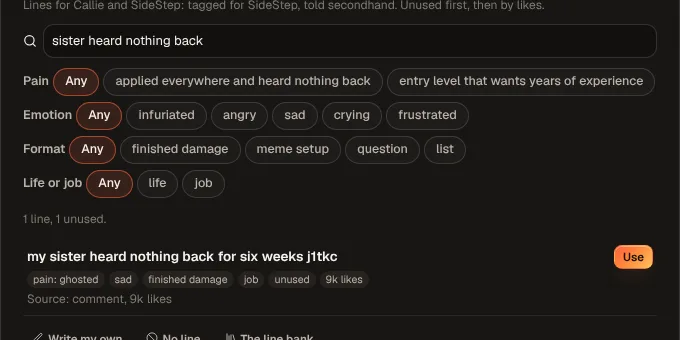
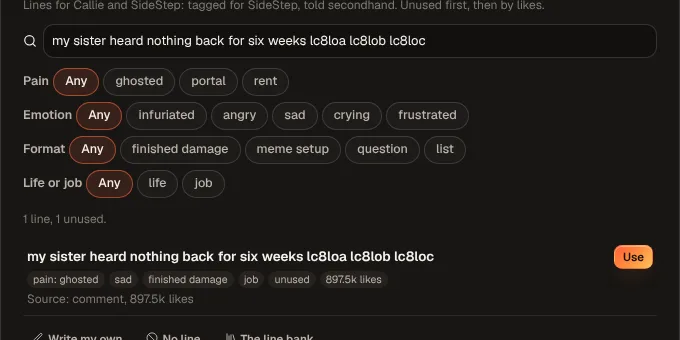
Who and what: a pulled place still shows where the owner is; the week help chip reads How a week works
A place still pulled from Higgsfield lands in the Visual drawer without
folding it (the post moves on only for an instant reuse). The help chip
next to Add to a week no longer repeats the button's name. The browser
specs' lines carry three run words and rising likes, so repeated runs on
one database never collide.

Claude-Session: https://claude.ai/code/session_019xw2DbiTjSDP6ZvpBUET1B

diff --git a/e2e/editor/linefirst.spec.ts b/e2e/editor/linefirst.spec.ts
@@ -12,7 +12,8 @@ import { api, guideShot, snap } from './helpers'
 const run = Date.now().toString(36).slice(-5)
 const MONDAY = '2027-03-01'
 const NEWPOST = `dougnp_${run}`, WEEK = `dougwk_${run}`
-const MONEY = `rent went up $400 and i have $12 left ${run}`
+// Three run words, so a line of an earlier run is never a near-match (80% of the words shared) that Import lines drops.
+const MONEY = `rent went up $400 and i have $12 left ${run}a ${run}b ${run}c`
 let doug = ''
 
 const q = (v: string) => (/[",\n]/.test(v) ? `"${v.replace(/"/g, '""')}"` : v)
@@ -23,7 +24,7 @@ const PLACES = [
   [`GS${run}`, 'Vertical 9:16 iPhone photo, upright portrait, under the bright canopy of a small-town gas station at night, the pumps lit, wet concrete. Level, unedited. Sharp, real phone grain, muted color. No people.', 'Rain falls past the canopy edge, the lights buzz. 6 seconds, 9:16.', '0a1b2c3d-1111-4a2b-9c3d-000000000001'],
   [`MB${run}`, 'Vertical 9:16 iPhone photo, upright portrait, a rusty mailbox at the end of a gravel driveway in steady rain, its door hanging open. Level, unedited. Sharp, real phone grain, muted color. No people.', 'Rain falls, the open mailbox door sways. 6 seconds, 9:16.', '0a1b2c3d-1111-4a2b-9c3d-000000000002'],
 ].map(r => r.map(q).join(',')).join('\n') + '\n'
-const LINES = ['text,source,source_likes,pain,emotion,format,voice_fit,life_or_job', [MONEY, 'comment', '99999', 'rent', 'sad', 'finished damage', 'first', 'job'], [`the portal logged me out mid application again ${run}`, 'comment', '99998', 'portal', 'frustrated', 'finished damage', 'first', 'job'], [`four interviews then a form email ${run}`, 'comment', '99997', 'ghosted', 'angry', 'finished damage', 'first', 'job']]
+const LINES = ['text,source,source_likes,pain,emotion,format,voice_fit,life_or_job', [MONEY, 'comment', '99999', 'rent', 'sad', 'finished damage', 'first', 'job'], [`the portal logged me out mid application again ${run}a ${run}b ${run}c`, 'comment', '99998', 'portal', 'frustrated', 'finished damage', 'first', 'job'], [`four interviews then a form email ${run}a ${run}b ${run}c`, 'comment', '99997', 'ghosted', 'angry', 'finished damage', 'first', 'job']]
   .map(r => (Array.isArray(r) ? r.map(q).join(',') : r)).join('\n') + '\n'
 
 async function pay(page: Page, button: Locator) {
@@ -55,7 +56,8 @@ test('New post for Doug: the line first, the gas station suggested for a money l
   const pick = line.locator('[data-field="line-best-item"]', { hasText: MONEY })
   await expect(pick).toBeVisible({ timeout: 30_000 })
   await pick.getByRole('button', { name: 'Use' }).click()
-  await expect(line.locator('[data-field="line-current"]')).toContainText('pain: rent', { timeout: 20_000 })
+  // The drawer folds to its summary (the line and its pain) and Visual opens.
+  await expect(line.locator('.st-hint').first()).toContainText('rent, sad', { timeout: 20_000 })
 
   // 3. Visual: opens next; the gas station first, its still reused for $0.
   const visual = page.locator('[data-field="faceless-still"]')

diff --git a/e2e/editor/whowhat.spec.ts b/e2e/editor/whowhat.spec.ts
@@ -13,8 +13,10 @@ const run = Date.now().toString(36).slice(-5)
 const MONDAY = '2027-06-07'
 const ACCOUNT = `callie_ww_${run}`
 // SideStep lines: three told secondhand (Callie's way) and two in the first person (Doug's).
-const SECOND = [`my roommate got ghosted after four rounds ${run}`, `my sister heard nothing back for six weeks ${run}`, `my friend redid the same unpaid test three times ${run}`]
-const FIRST = [`they ghosted me after round four ${run}`, `i applied to ninety jobs and got one bot email ${run}`]
+// Three run words each, so no line of an earlier run is a near-match that Import lines drops.
+const w = `${run}a ${run}b ${run}c`
+const SECOND = [`my roommate got ghosted after four rounds ${w}`, `my sister heard nothing back for six weeks ${w}`, `my friend redid the same unpaid test three times ${w}`]
+const FIRST = [`they ghosted me after round four ${w}`, `i applied to ninety jobs and got one bot email ${w}`]
 const q = (v: string) => (/[",\n]/.test(v) ? `"${v.replace(/"/g, '""')}"` : v)
 
 async function pick(page: Page, character: string, product: string) {
@@ -33,7 +35,9 @@ async function newVideoPost(page: Page): Promise<string> {
 test.beforeAll(async () => {
   const { callie, sideStep } = seedData()
   await api('PUT', '/line-bank/stance', { characterId: callie, stance: 'secondhand' })
-  const rows = [...SECOND.map((t, i) => [t, 'comment', String(9000 - i), 'ghosted', 'sad', 'finished damage', 'secondhand', 'job']), ...FIRST.map((t, i) => [t, 'comment', String(9500 - i), 'ghosted', 'angry', 'finished damage', 'first', 'job'])]
+  // Likes that grow with each run, so this run's lines are the best fits even beside an earlier run's.
+  const base = 100_000 + Math.floor(Date.now() / 1000) % 1_000_000
+  const rows = [...SECOND.map((t, i) => [t, 'comment', String(base - i), 'ghosted', 'sad', 'finished damage', 'secondhand', 'job']), ...FIRST.map((t, i) => [t, 'comment', String(base + 10 - i), 'ghosted', 'angry', 'finished damage', 'first', 'job'])]
   const csv = ['text,source,source_likes,pain,emotion,format,voice_fit,life_or_job', ...rows.map(r => r.map(q).join(','))].join('\n') + '\n'
   await api('POST', '/line-bank/lines/import', { csv, name: `who and what ${run}`, productId: sideStep })
   await api('PUT', `/social-accounts/${ACCOUNT}`, { characterId: callie, slotsPerDay: 1 })
@@ -102,7 +106,7 @@ test('Callie + SideStep: only secondhand lines, the 3 best in the slot; Browse o
   await expect(sheet).toBeVisible()
   await expect(sheet.locator('[data-field="line-sheet-scope"]')).toContainText('Lines for Callie and SideStep')
   for (const t of FIRST) await expect(sheet).not.toContainText(t)
-  await sheet.getByLabel('Search lines').fill(`sister heard nothing back`)
+  await sheet.getByLabel('Search lines').fill(SECOND[1]!)
   const row = sheet.locator('[data-field="line-row"]', { hasText: SECOND[1]! })
   await expect(row).toBeVisible()
   await expect(sheet.locator('[data-field="line-row"]')).toHaveCount(1)

diff --git a/src/studio/pages/post/PlacePanel.tsx b/src/studio/pages/post/PlacePanel.tsx
@@ -39,12 +39,13 @@ export function PlaceSuggestions({ ctx, onUsed }: { ctx: PostCtx; onUsed?: (stil
       void qc.invalidateQueries({ queryKey: ['jobs'] })
       toast({ tone: 'ok', text: r.still === 'attached' ? `${p.id}'s still is on this post, $0. Next: the video.` : r.still === 'pulling' ? `Pulling ${p.id}'s still from Higgsfield, $0. It shows here in a few seconds.` : `${p.id} is the scene. Make the still below (priced).` })
       onUsed?.(r.still)
-      // A pull runs on the worker: look again until its still lands (a minute at most).
+      // A pull runs on the worker: look again until its still lands (a minute
+      // at most), then show it where the owner is (the drawer stays open).
       if (r.still === 'pulling') {
         for (let i = 0; i < 30; i++) {
           await new Promise(res => setTimeout(res, 2000))
           const row = await api.postRow(item.id).catch(() => null)
-          if (row?.stillAssetId) { qc.setQueryData(rowKey(item.id), row); await qc.invalidateQueries({ queryKey: keys.content }); onUsed?.('attached'); break }
+          if (row?.stillAssetId) { qc.setQueryData(rowKey(item.id), row); await qc.invalidateQueries({ queryKey: keys.content }); onUsed?.('kept'); break }
         }
       }
     } catch (e) { toast({ tone: 'bad', text: errorMessage(e) }) }

diff --git a/src/studio/pages/post/WeekSlot.tsx b/src/studio/pages/post/WeekSlot.tsx
@@ -58,7 +58,7 @@ export function WeekSlot({ ctx }: { ctx: PostCtx }) {
         ) : (
           <button type="button" className="st-btn xs secondary" onClick={() => setOpen(o => !o)} aria-expanded={open} data-field="week-slot-open">Add to a week</button>
         )}
-        <HowTo id="line-first" label="Add to a week" />
+        <HowTo id="line-first" label="How a week works" />
       </div>
       {open && (
         <div className="st-row" style={{ gap: 8, alignItems: 'flex-end', flexWrap: 'wrap' }} data-field="week-slot-form">
